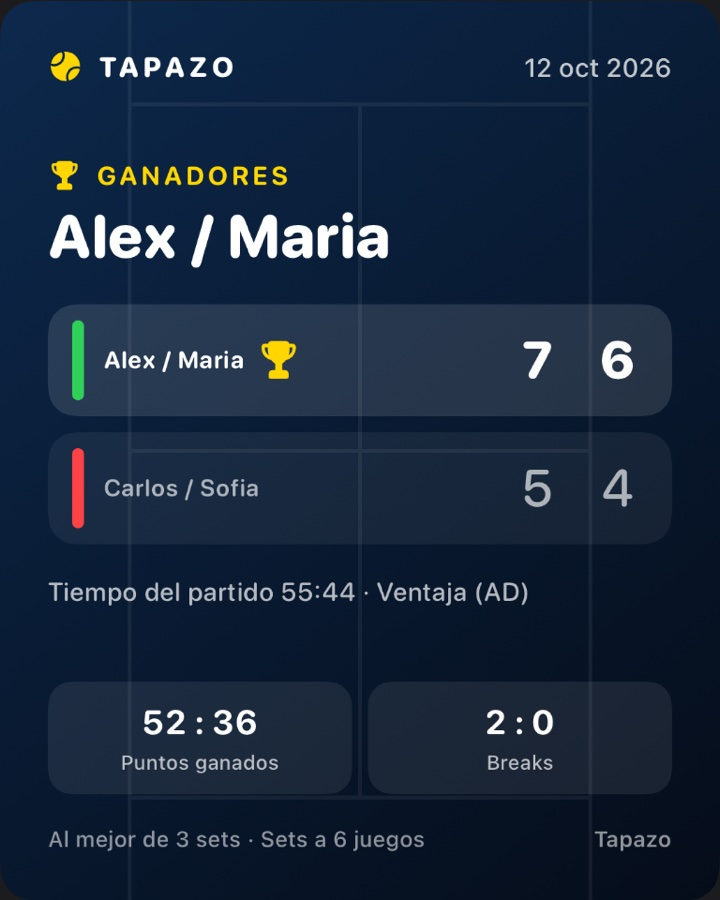
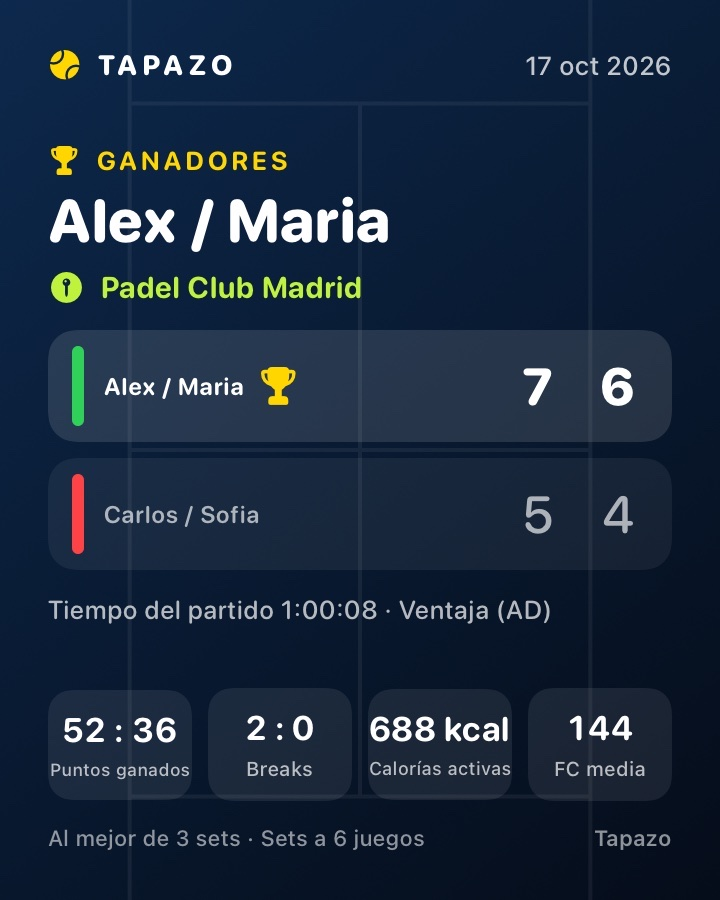
Website: clubs nearby, voice, courtside scoreboard and new screenshots
From mlodylbn/padelscore-app@6f29c3b

diff --git a/index.html b/index.html
@@ -7,7 +7,7 @@
 <meta name="title-pl" content="Tapazo – wynik padla na Apple Watch i iPhonie">
 <meta name="title-en" content="Tapazo – padel scoring for Apple Watch and iPhone">
 <meta name="title-es" content="Tapazo – marcador de pádel para Apple Watch y iPhone">
-<meta name="description" content="Tapazo liczy wynik meczu padla na Apple Watch i iPhonie: punkty gestem Double Tap, mecz towarzyski, turniejowy lub Americano, break pointy i piłki meczowe, profil gracza, wspólny mecz ze znajomymi, historia i statystyki. Bez kont i bez zbierania danych.">
+<meta name="description" content="Tapazo liczy wynik meczu padla na Apple Watch i iPhonie: punkty gestem Double Tap, mecz towarzyski, turniejowy lub Americano, break pointy i piłki meczowe, kluby padlowe w pobliżu, wynik ogłaszany na głos, profil gracza, wspólny mecz ze znajomymi, historia i statystyki. Bez kont i bez zbierania danych.">
 <link rel="canonical" href="https://www.tapazopadelscore.pl/">
 <meta property="og:title" content="Tapazo – wynik padla na Apple Watch">
 <meta property="og:description" content="Licz punkty gestem Double Tap, bez dotykania zegarka. Gemy, sety, tie-breaki, serwis i zmiana stron liczą się same.">
@@ -37,7 +37,7 @@
   "alternateName": ["Tapazo Padel", "Tapazo: Padel Score", "PadelScore"],
   "operatingSystem": "iOS, watchOS",
   "applicationCategory": "SportsApplication",
-  "description": "Padel scoring for Apple Watch and iPhone: Double Tap scoring, serve rotation, friendly, tournament and Americano matches, break and match points, a change of ends timer, player profile, matches with friends nearby, history, statistics and a shareable result image.",
+  "description": "Padel scoring for Apple Watch and iPhone: Double Tap scoring, serve rotation, friendly, tournament and Americano matches, break and match points, a change of ends timer, padel clubs nearby, the score called out loud, a courtside scoreboard, Apple Health workouts, player profile, matches with friends nearby, history, statistics and a shareable result image.",
   "url": "https://www.tapazopadelscore.pl/",
   "image": "https://www.tapazopadelscore.pl/assets/icon.png",
   "inLanguage": ["pl", "en", "de", "es", "fr", "it", "ru", "zh-Hans"],
@@ -64,6 +64,9 @@
   <symbol id="i-user" viewBox="0 0 24 24"><circle cx="12" cy="8" r="4"/><path d="M4 20.5c1.3-4 4.4-6 8-6s6.7 2 8 6"/></symbol>
   <symbol id="i-wave" viewBox="0 0 24 24"><circle cx="12" cy="12" r="2"/><path d="M8 8a5.7 5.7 0 0 0 0 8M16 8a5.7 5.7 0 0 1 0 8M5 5a10 10 0 0 0 0 14M19 5a10 10 0 0 1 0 14"/></symbol>
   <symbol id="i-hash" viewBox="0 0 24 24"><path d="M9 3.5L7 20.5M17 3.5l-2 17M4 9h17M3 15h17"/></symbol>
+  <symbol id="i-pin" viewBox="0 0 24 24"><path d="M12 21s-6.5-5.6-6.5-11a6.5 6.5 0 0 1 13 0c0 5.4-6.5 11-6.5 11z"/><circle cx="12" cy="10" r="2.5"/></symbol>
+  <symbol id="i-sound" viewBox="0 0 24 24"><path d="M4 9.5h3.5L12 5.5v13l-4.5-4H4z"/><path d="M15.5 9a4.2 4.2 0 0 1 0 6M18.5 6.5a8 8 0 0 1 0 11"/></symbol>
+  <symbol id="i-board" viewBox="0 0 24 24"><rect x="2.5" y="6" width="19" height="12" rx="2.5"/><path d="M12 6v12M7 10.5v3M17 10.5v3"/></symbol>
   <symbol id="i-palette" viewBox="0 0 24 24"><path d="M12 3a9 9 0 1 0 0 18c1.4 0 2-.9 2-1.9 0-1.4-1.2-1.7-1.2-3 0-1 .8-1.6 1.9-1.6H17a4 4 0 0 0 4-4C21 6.4 17 3 12 3z"/><circle cx="7.5" cy="11.5" r="1.2"/><circle cx="10" cy="7.5" r="1.2"/><circle cx="14.5" cy="7.5" r="1.2"/></symbol>
 </svg>
 
@@ -134,12 +137,12 @@
       <article class="card reveal">
         <div class="icon c-green"><svg class="i"><use href="#i-target"/></svg></div>
         <h3><span lang="pl">Jedno stuknięcie na punkt</span><span lang="en">One tap per point</span><span lang="es">Un toque por punto</span></h3>
-        <p><span lang="pl">Duże przyciski drużyn na zegarku, a&nbsp;gestem Double Tap bez dotykania ekranu. Pomyłkę cofasz jednym przyciskiem.</span><span lang="en">Big team buttons on your watch, or Double Tap without touching the screen. Undo any mistake with one button.</span><span lang="es">Botones grandes de cada equipo en el reloj, o el doble toque sin tocar la pantalla. Deshaz cualquier error con un botón.</span></p>
+        <p><span lang="pl">Duże przyciski drużyn na zegarku, gest Double Tap bez dotykania ekranu, a&nbsp;na Apple&nbsp;Watch Ultra przycisk Czynności. Pomyłkę cofasz jednym przyciskiem.</span><span lang="en">Big team buttons on your watch, Double Tap without touching the screen, and the Action button on Apple&nbsp;Watch Ultra. Undo any mistake with one button.</span><span lang="es">Botones grandes de cada equipo en el reloj, el doble toque sin tocar la pantalla y el botón de acción en el Apple&nbsp;Watch Ultra. Deshaz cualquier error con un botón.</span></p>
       </article>
       <article class="card reveal">
         <div class="icon c-yellow"><svg class="i"><use href="#i-ball"/></svg></div>
         <h3><span lang="pl">Kto serwuje i&nbsp;skąd</span><span lang="en">Who serves, and from where</span><span lang="es">Quién saca y desde dónde</span></h3>
-        <p><span lang="pl">Przed meczem wybierasz, kto serwuje. Potem aplikacja sama pilnuje rotacji serwisu, imion graczy i&nbsp;strony serwisu.</span><span lang="en">Pick who serves before the match. The app then follows the serve rotation, player names and serving side for you.</span><span lang="es">Elige quién saca antes del partido. La app sigue por ti la rotación del saque, los nombres de los jugadores y el lado de saque.</span></p>
+        <p><span lang="pl">Przed meczem wybierasz, kto serwuje, także jednym stuknięciem w&nbsp;„Kto serwuje?” na zegarku. Potem aplikacja sama pilnuje rotacji serwisu, imion graczy i&nbsp;strony serwisu.</span><span lang="en">Pick who serves before the match, also with one tap on "Who serves?" on the watch. The app then follows the serve rotation, player names and serving side for you.</span><span lang="es">Elige quién saca antes del partido, también con un toque en «¿Quién saca?» en el reloj. La app sigue por ti la rotación del saque, los nombres de los jugadores y el lado de saque.</span></p>
       </article>
       <article class="card reveal">
         <div class="icon c-teal"><svg class="i"><use href="#i-medal"/></svg></div>
@@ -155,6 +158,21 @@
         <div class="icon c-teal"><svg class="i"><use href="#i-wave"/></svg></div>
         <h3><span lang="pl">Mecz ze znajomymi w&nbsp;pobliżu</span><span lang="en">Play with friends nearby</span><span lang="es">Juega con amigos cercanos</span></h3>
         <p><span lang="pl">Znajomi z&nbsp;Tapazo na korcie pojawiają się na ekranie „Nowy mecz”. Dodaj ich do drużyny, a&nbsp;wynik zobaczą na swoim iPhonie i&nbsp;zegarku. Mecz trafi też do ich historii. Bez internetu.</span><span lang="en">Friends with Tapazo on court appear on the New match screen. Add them to a team and they see the score on their iPhone and watch. The match goes into their history too. No internet needed.</span><span lang="es">Los amigos con Tapazo en la pista aparecen en la pantalla Nuevo partido. Añádelos a un equipo y verán el marcador en su iPhone y su reloj. El partido también se guarda en su historial. Sin internet.</span></p>
+      </article>
+      <article class="card reveal">
+        <div class="icon c-teal"><svg class="i"><use href="#i-pin"/></svg></div>
+        <h3><span lang="pl">Kluby padlowe w&nbsp;pobliżu</span><span lang="en">Padel clubs nearby</span><span lang="es">Clubes de pádel cercanos</span></h3>
+        <p><span lang="pl">Mapa i&nbsp;lista klubów do 10, 25 lub 50&nbsp;km z&nbsp;Apple Maps, z&nbsp;dojazdem, telefonem i&nbsp;stroną klubu. Klub zapisuje się z&nbsp;meczem i&nbsp;trafia na grafikę z&nbsp;wynikiem.</span><span lang="en">A map and list of clubs within 10, 25 or 50&nbsp;km from Apple Maps, with directions, phone and website. The club is saved with the match and shown on the result image.</span><span lang="es">Mapa y lista de clubes a 10, 25 o 50&nbsp;km desde Apple Maps, con cómo llegar, teléfono y web. El club se guarda con el partido y aparece en la imagen del resultado.</span></p>
+      </article>
+      <article class="card reveal">
+        <div class="icon c-orange"><svg class="i"><use href="#i-sound"/></svg></div>
+        <h3><span lang="pl">Wynik na głos</span><span lang="en">Score called out loud</span><span lang="es">Marcador en voz alta</span></h3>
+        <p><span lang="pl">Po każdym punkcie aplikacja ogłasza wynik jak sędzia: przez głośnik iPhone'a dla całej czwórki albo w&nbsp;słuchawkach.</span><span lang="en">After every point the app calls the score like an umpire: on the iPhone speaker for all four players, or in your headphones.</span><span lang="es">Tras cada punto, la app canta el marcador como un árbitro: por el altavoz del iPhone para los cuatro o en tus auriculares.</span></p>
+      </article>
+      <article class="card reveal">
+        <div class="icon c-blue"><svg class="i"><use href="#i-board"/></svg></div>
+        <h3><span lang="pl">Tablica przy korcie</span><span lang="en">Courtside scoreboard</span><span lang="es">Marcador a pie de pista</span></h3>
+        <p><span lang="pl">Obróć iPhone'a poziomo, a&nbsp;zamieni się w&nbsp;tablicę z&nbsp;wielkimi cyframi, czytelną dla wszystkich graczy. Strony zamienisz jak na korcie.</span><span lang="en">Turn your iPhone sideways for a scoreboard with huge numbers that every player can read. Swap sides to match the court.</span><span lang="es">Gira el iPhone en horizontal y se convierte en un marcador con números enormes que todos pueden leer. Cambia los lados como en la pista.</span></p>
       </article>
       <article class="card reveal">
         <div class="icon c-pink"><svg class="i"><use href="#i-user"/></svg></div>
@@ -183,13 +201,13 @@
       </article>
       <article class="card reveal">
         <div class="icon c-sky"><svg class="i"><use href="#i-phone"/></svg></div>
-        <h3><span lang="pl">Wynik na ekranie blokady</span><span lang="en">Score on the Lock Screen</span><span lang="es">Marcador en la pantalla de bloqueo</span></h3>
-        <p><span lang="pl">Live Activity i&nbsp;Dynamic Island na iPhonie. Zegarek i&nbsp;telefon zawsze pokazują to samo.</span><span lang="en">Live Activity and Dynamic Island on iPhone. Watch and phone always show the same score.</span><span lang="es">Actividad en directo y Dynamic Island en el iPhone. El reloj y el teléfono muestran siempre el mismo marcador.</span></p>
+        <h3><span lang="pl">Wynik zawsze na widoku</span><span lang="en">The score always in sight</span><span lang="es">El marcador siempre a la vista</span></h3>
+        <p><span lang="pl">Ekran blokady i&nbsp;Dynamic Island na iPhonie, wynik na tarczy zegarka. Zegarek i&nbsp;telefon zawsze pokazują to samo.</span><span lang="en">Lock Screen and Dynamic Island on iPhone, and the score on your watch face. Watch and phone always show the same score.</span><span lang="es">Pantalla de bloqueo y Dynamic Island en el iPhone, y el marcador en la esfera del reloj. El reloj y el teléfono muestran siempre lo mismo.</span></p>
       </article>
       <article class="card reveal">
         <div class="icon c-red"><svg class="i"><use href="#i-heart"/></svg></div>
-        <h3><span lang="pl">Trening w&nbsp;Zdrowiu</span><span lang="en">Workout in Health</span><span lang="es">Entrenamiento en Salud</span></h3>
-        <p><span lang="pl">Opcjonalnie zapisz mecz jako trening: tętno i&nbsp;kalorie w&nbsp;historii meczów.</span><span lang="en">Optionally save the match as a workout, with heart rate and calories in your history.</span><span lang="es">Si quieres, guarda el partido como entrenamiento, con frecuencia cardiaca y calorías en tu historial.</span></p>
+        <h3><span lang="pl">Trening w&nbsp;aplikacji Zdrowie</span><span lang="en">Workout in Apple Health</span><span lang="es">Entrenamiento en Salud</span></h3>
+        <p><span lang="pl">Zegarek zapisuje mecz jako trening w&nbsp;aplikacji Zdrowie, a&nbsp;tętno i&nbsp;kalorie pokazuje w&nbsp;historii. Przełącznik „Zapisuj mecze w&nbsp;Zdrowiu” w&nbsp;ustawieniach.</span><span lang="en">The watch saves the match as a workout in the Health app, with heart rate and calories in your history. Turn it on or off with "Save matches in Health".</span><span lang="es">El reloj guarda el partido como entrenamiento en la app Salud, con frecuencia cardiaca y calorías en tu historial. Actívalo o desactívalo con «Guardar partidos en Salud».</span></p>
       </article>
     </div>
   </div>
@@ -273,12 +291,17 @@
       <figure class="shot reveal">
         <div class="frame"><img src="assets/iphone-home.jpg" loading="lazy" width="506" height="1100" alt="Menu startowe Tapazo z trwającym meczem" data-en="assets/en/iphone-home.jpg" data-alt-en="Tapazo home screen with a match in progress" data-es="assets/es/iphone-home.jpg" data-alt-es="Pantalla de inicio de Tapazo con un partido en curso"></div>
         <figcaption><span lang="pl">Start</span><span lang="en">Start</span><span lang="es">Inicio</span>
-          <span><span lang="pl">Mecz, profil, historia i&nbsp;ustawienia</span><span lang="en">Match, profile, history and settings</span><span lang="es">Partido, perfil, historial y ajustes</span></span></figcaption>
+          <span><span lang="pl">Mecz, profil, historia i&nbsp;kluby</span><span lang="en">Match, profile, history and clubs</span><span lang="es">Partido, perfil, historial y clubes</span></span></figcaption>
       </figure>
       <figure class="shot reveal">
         <div class="frame"><img src="assets/iphone-score.jpg" loading="lazy" width="506" height="1100" alt="Ekran meczu z piłką setową" data-en="assets/en/iphone-score.jpg" data-alt-en="Match screen with a set point" data-es="assets/es/iphone-score.jpg" data-alt-es="Pantalla del partido con bola de set"></div>
         <figcaption><span lang="pl">Mecz</span><span lang="en">Match</span><span lang="es">Partido</span>
           <span><span lang="pl">Wynik, serwis i&nbsp;piłka setowa</span><span lang="en">Score, serve and set point</span><span lang="es">Marcador, saque y bola de set</span></span></figcaption>
+      </figure>
+      <figure class="shot reveal">
+        <div class="frame"><img src="assets/iphone-clubs.jpg" loading="lazy" width="506" height="1100" alt="Kluby padlowe w pobliżu na mapie i liście, do 50 km" data-en="assets/en/iphone-clubs.jpg" data-alt-en="Padel clubs nearby on a map and a list, up to 50 km" data-es="assets/es/iphone-clubs.jpg" data-alt-es="Clubes de pádel cercanos en un mapa y una lista, hasta 50 km"></div>
+        <figcaption><span lang="pl">Kluby</span><span lang="en">Clubs</span><span lang="es">Clubes</span>
+          <span><span lang="pl">Kluby padlowe w&nbsp;pobliżu na mapie</span><span lang="en">Padel clubs nearby on a map</span><span lang="es">Clubes de pádel cercanos en un mapa</span></span></figcaption>
       </figure>
       <figure class="shot reveal">
         <div class="frame"><img src="assets/iphone-change-ends.jpg" loading="lazy" width="506" height="1100" alt="Odliczanie czasu na zmianę stron" data-en="assets/en/iphone-change-ends.jpg" data-alt-en="Change of ends countdown" data-es="assets/es/iphone-change-ends.jpg" data-alt-es="Cuenta atrás del cambio de lado"></div>
@@ -291,9 +314,9 @@
           <span><span lang="pl">Drużyny, gracze w&nbsp;pobliżu i&nbsp;serwis</span><span lang="en">Teams, players nearby and serve</span><span lang="es">Equipos, jugadores cercanos y saque</span></span></figcaption>
       </figure>
       <figure class="shot reveal">
-        <div class="frame"><img src="assets/iphone-history.jpg" loading="lazy" width="506" height="1100" alt="Historia meczów z podsumowaniem i kartami meczów" data-en="assets/en/iphone-history.jpg" data-alt-en="Match history with a summary and match cards" data-es="assets/es/iphone-history.jpg" data-alt-es="Historial con resumen y tarjetas de partidos"></div>
+        <div class="frame"><img src="assets/iphone-history.jpg" loading="lazy" width="506" height="1100" alt="Historia meczów z podsumowaniem, klubami i kaloriami" data-en="assets/en/iphone-history.jpg" data-alt-en="Match history with a summary, clubs and calories" data-es="assets/es/iphone-history.jpg" data-alt-es="Historial con resumen, clubes y calorías"></div>
         <figcaption><span lang="pl">Historia</span><span lang="en">History</span><span lang="es">Historial</span>
-          <span><span lang="pl">Podsumowanie, filtr i&nbsp;eksport</span><span lang="en">Summary, filter and export</span><span lang="es">Resumen, filtro y exportación</span></span></figcaption>
+          <span><span lang="pl">Kluby, kalorie, filtr i&nbsp;eksport</span><span lang="en">Clubs, calories, filter and export</span><span lang="es">Clubes, calorías, filtro y exportación</span></span></figcaption>
       </figure>
       <figure class="shot reveal">
         <div class="frame"><img src="assets/iphone-profile.jpg" loading="lazy" width="506" height="1100" alt="Profil gracza z poziomem, informacjami o grze i statystykami" data-en="assets/en/iphone-profile.jpg" data-alt-en="Player profile with level, playing details and statistics" data-es="assets/es/iphone-profile.jpg" data-alt-es="Perfil de jugador con nivel, datos de juego y estadísticas"></div>
@@ -301,14 +324,9 @@
           <span><span lang="pl">Poziom, styl gry i&nbsp;statystyki</span><span lang="en">Level, playing style and statistics</span><span lang="es">Nivel, estilo de juego y estadísticas</span></span></figcaption>
       </figure>
       <figure class="shot reveal">
-        <div class="frame"><img src="assets/iphone-stats.jpg" loading="lazy" width="506" height="1100" alt="Szczegóły meczu: wykres przebiegu i grafika z wynikiem do udostępnienia" data-en="assets/en/iphone-stats.jpg" data-alt-en="Match details: match flow chart and a shareable result image" data-es="assets/es/iphone-stats.jpg" data-alt-es="Detalles del partido: gráfico del partido e imagen del resultado para compartir"></div>
-        <figcaption><span lang="pl">Statystyki</span><span lang="en">Statistics</span><span lang="es">Estadísticas</span>
-          <span><span lang="pl">Breaki, serwis i&nbsp;przebieg meczu</span><span lang="en">Breaks, serve and match flow</span><span lang="es">Breaks, saque y desarrollo del partido</span></span></figcaption>
-      </figure>
-      <figure class="shot reveal">
         <div class="frame card-img"><img src="assets/share-card.jpg" loading="lazy" width="720" height="900" alt="Grafika z wynikiem meczu do udostępnienia" data-en="assets/en/share-card.jpg" data-alt-en="Shareable match result image" data-es="assets/es/share-card.jpg" data-alt-es="Imagen del resultado para compartir"></div>
         <figcaption><span lang="pl">Udostępnij</span><span lang="en">Share</span><span lang="es">Compartir</span>
-          <span><span lang="pl">Gotowa grafika na Instagram i&nbsp;WhatsApp</span><span lang="en">A ready image for Instagram and WhatsApp</span><span lang="es">Una imagen lista para Instagram y WhatsApp</span></span></figcaption>
+          <span><span lang="pl">Grafika z&nbsp;klubem na Instagram i&nbsp;WhatsApp</span><span lang="en">An image with the club for Instagram and WhatsApp</span><span lang="es">Una imagen con el club para Instagram y WhatsApp</span></span></figcaption>
       </figure>
     </div>
   </div>
@@ -323,7 +341,7 @@
     <div class="steps">
       <div class="card step reveal">
         <h3><span lang="pl">Ustaw mecz</span><span lang="en">Set up the match</span><span lang="es">Prepara el partido</span></h3>
-        <p><span lang="pl">Wybierz mecz towarzyski, turniejowy lub Americano. Dodaj graczy: wpisz imiona albo dodaj znajomych z&nbsp;Tapazo w&nbsp;pobliżu.</span><span lang="en">Choose a friendly, tournament or Americano match. Add players: type their names or add friends with Tapazo nearby.</span><span lang="es">Elige partido amistoso, de torneo o Americano. Añade jugadores: escribe sus nombres o añade amigos cercanos con Tapazo.</span></p>
+        <p><span lang="pl">Wybierz mecz towarzyski, turniejowy lub Americano. Dodaj graczy: wpisz imiona albo dodaj znajomych z&nbsp;Tapazo w&nbsp;pobliżu. Aplikacja podpowie klub, w&nbsp;którym grasz.</span><span lang="en">Choose a friendly, tournament or Americano match. Add players: type their names or add friends with Tapazo nearby. The app suggests the club you are at.</span><span lang="es">Elige partido amistoso, de torneo o Americano. Añade jugadores: escribe sus nombres o añade amigos cercanos con Tapazo. La app te sugiere el club en el que estás.</span></p>
       </div>
       <div class="card step reveal">
         <h3><span lang="pl">Graj z&nbsp;zegarkiem</span><span lang="en">Play with your watch</span><span lang="es">Juega con tu reloj</span></h3>
@@ -343,7 +361,7 @@
       <div class="shield"><svg class="i"><use href="#i-shield"/></svg></div>
       <div>
         <h2><span lang="pl">Twoje dane zostają u&nbsp;Ciebie</span><span lang="en">Your data stays with you</span><span lang="es">Tus datos se quedan contigo</span></h2>
-        <p><span lang="pl">Bez konta, bez serwerów, bez reklam i&nbsp;bez śledzenia. Tapazo nie zbiera żadnych danych, a&nbsp;Twój profil i&nbsp;zdjęcie zostają na Twoim iPhonie.</span><span lang="en">No account, no servers, no ads and no tracking. Tapazo does not collect any data; your profile and photo stay on your iPhone.</span><span lang="es">Sin cuenta, sin servidores, sin anuncios y sin seguimiento. Tapazo no recopila ningún dato; tu perfil y tu foto se quedan en tu iPhone.</span></p>
+        <p><span lang="pl">Bez konta, bez serwerów, bez reklam i&nbsp;bez śledzenia. Tapazo nie zbiera żadnych danych, a&nbsp;Twój profil i&nbsp;zdjęcie zostają na Twoim iPhonie. Lokalizacja służy tylko do wyszukania klubów i&nbsp;nie jest zapisywana.</span><span lang="en">No account, no servers, no ads and no tracking. Tapazo does not collect any data; your profile and photo stay on your iPhone. Your location is used only to find clubs and is not saved.</span><span lang="es">Sin cuenta, sin servidores, sin anuncios y sin seguimiento. Tapazo no recopila ningún dato; tu perfil y tu foto se quedan en tu iPhone. La ubicación solo se usa para buscar clubes y no se guarda.</span></p>
       </div>
       <a class="btn primary" href="privacy/"><span lang="pl">Polityka prywatności</span><span lang="en">Privacy policy</span><span lang="es">Política de privacidad</span></a>
     </div>

diff --git a/support/index.html b/support/index.html
@@ -130,9 +130,9 @@
     <details>
       <summary><span lang="pl">Jak działa wskazywanie serwującego?</span><span lang="en">How does the server indicator work?</span><span lang="es">¿Cómo funciona el indicador de saque?</span></summary>
       <div class="answer">
-        <p lang="pl">Przy starcie meczu, na ekranie „Nowy mecz”, wybierz, kto serwuje pierwszy, albo zakręć rakietą. Dalej aplikacja sama liczy rotację, także w&nbsp;tie-breaku, i&nbsp;pokazuje stronę serwisu. Gdy gracze mają imiona, widać też, który z&nbsp;nich serwuje, a&nbsp;przed pierwszym gemem serwisowym każdej pary aplikacja pyta, kto z&nbsp;niej serwuje. Serwującego możesz poprawić w&nbsp;każdej chwili w&nbsp;menu meczu („…” › Zmień serwis).</p>
-        <p lang="en">When you start a match on the “New match” screen, choose who serves first, or spin the racket. From then on the app counts the rotation, including tie-breaks, and shows the serving side. When players have names, you also see which player serves, and before each pair’s first service game the app asks which of them serves. You can correct the server at any time in the match menu (“…” › Change server).</p>
-        <p lang="es">Al empezar el partido, elige quién saca primero. A partir de ahí la app cuenta la rotación, también en los tie-breaks, y muestra el lado de saque. Con los nombres de los jugadores ves además qué jugador saca; antes del primer juego de saque de cada pareja, la app pregunta quién saca. Puedes corregir el saque en cualquier momento en el menú del partido.</p>
+        <p lang="pl">Przy starcie meczu, na ekranie „Nowy mecz”, wybierz, kto serwuje pierwszy, albo zakręć rakietą. Dalej aplikacja sama liczy rotację, także w&nbsp;tie-breaku, i&nbsp;pokazuje stronę serwisu. Gdy gracze mają imiona, widać też, który z&nbsp;nich serwuje, a&nbsp;przed pierwszym gemem serwisowym każdej pary aplikacja pyta, kto z&nbsp;niej serwuje. Serwującego możesz poprawić w&nbsp;każdej chwili w&nbsp;menu meczu („…” › Zmień serwis). Na zegarku, dopóki serwujący nie jest wybrany, nad wynikiem widać żółty przycisk „Kto serwuje?”, a&nbsp;wybór jest też na górze menu „•••”.</p>
+        <p lang="en">When you start a match on the “New match” screen, choose who serves first, or spin the racket. From then on the app counts the rotation, including tie-breaks, and shows the serving side. When players have names, you also see which player serves, and before each pair’s first service game the app asks which of them serves. You can correct the server at any time in the match menu (“…” › Change server). On the watch, until a server is chosen, a yellow “Who serves?” button appears above the score, and the choice is also at the top of the “•••” menu.</p>
+        <p lang="es">Al empezar el partido, elige quién saca primero. A partir de ahí la app cuenta la rotación, también en los tie-breaks, y muestra el lado de saque. Con los nombres de los jugadores ves además qué jugador saca; antes del primer juego de saque de cada pareja, la app pregunta quién saca. Puedes corregir el saque en cualquier momento en el menú del partido. En el reloj, mientras no se elija quién saca, aparece sobre el marcador un botón amarillo «¿Quién saca?», y la opción también está arriba del menú «•••».</p>
       </div>
     </details>
 
@@ -187,6 +187,42 @@
         <p lang="pl">Oba telefony muszą mieć otwarte Tapazo i&nbsp;włączone Bluetooth oraz Wi-Fi (nie trzeba łączyć się z&nbsp;żadną siecią). Znajomy powinien mieć ustawiony nick w&nbsp;profilu i&nbsp;włączoną opcję „Widoczny dla graczy w&nbsp;pobliżu” na ekranie „Dołącz do meczu znajomego”. Sprawdź też zgodę na sieć lokalną: Ustawienia › Prywatność i&nbsp;ochrona › Sieć lokalna › Tapazo.</p>
         <p lang="en">Both phones need Tapazo open with Bluetooth and Wi-Fi turned on (no need to join a network). Your friend should have a nickname in their profile and “Visible to players nearby” turned on under “Join a friend's match”. Also check local network access: Settings › Privacy &amp; Security › Local Network › Tapazo.</p>
         <p lang="es">Los dos teléfonos necesitan Tapazo abierto con Bluetooth y Wi-Fi activados (no hace falta conectarse a una red). Tu amigo debe tener un apodo en su perfil y «Visible para jugadores cercanos» activado en «Unirse al partido de un amigo». Comprueba también el acceso a la red local: Ajustes › Privacidad y seguridad › Red local › Tapazo.</p>
+      </div>
+    </details>
+
+    <details>
+      <summary><span lang="pl">Jak znaleźć kluby padlowe w&nbsp;pobliżu?</span><span lang="en">How do I find padel clubs nearby?</span><span lang="es">¿Cómo encuentro clubes de pádel cercanos?</span></summary>
+      <div class="answer">
+        <p lang="pl">Na ekranie startowym stuknij „Kluby w&nbsp;pobliżu” i&nbsp;zezwól na dostęp do lokalizacji podczas używania aplikacji. Tapazo wyszuka w&nbsp;Apple Maps kluby padlowe do 10, 25 lub 50&nbsp;km i&nbsp;pokaże je na mapie i&nbsp;liście. Stuknij klub, żeby wyznaczyć trasę, zadzwonić albo otworzyć jego stronę. Lokalizacja służy tylko do tego wyszukiwania i&nbsp;nie jest zapisywana. Jeśli wcześniej odmówiłeś dostępu, włącz go w&nbsp;Ustawieniach iPhone'a › Tapazo › Lokalizacja.</p>
+        <p lang="en">On the home screen, tap “Clubs nearby” and allow location access while using the app. Tapazo searches Apple Maps for padel clubs within 10, 25 or 50&nbsp;km and shows them on a map and a list. Tap a club for directions, to call it or to open its website. Your location is used only for this search and is not saved. If you declined access earlier, turn it on in iPhone Settings › Tapazo › Location.</p>
+        <p lang="es">En la pantalla de inicio, toca «Clubes cercanos» y permite el acceso a la ubicación mientras usas la app. Tapazo busca en Apple Maps clubes de pádel a 10, 25 o 50&nbsp;km y los muestra en un mapa y una lista. Toca un club para ver cómo llegar, llamar o abrir su web. La ubicación solo se usa para esta búsqueda y no se guarda. Si antes denegaste el acceso, actívalo en Ajustes del iPhone › Tapazo › Ubicación.</p>
+      </div>
+    </details>
+
+    <details>
+      <summary><span lang="pl">Jak przypisać klub do meczu?</span><span lang="en">How do I set the club of a match?</span><span lang="es">¿Cómo asigno el club de un partido?</span></summary>
+      <div class="answer">
+        <p lang="pl">Na ekranie „Nowy mecz” aplikacja podpowiada klub, w&nbsp;którym jesteś (do 500&nbsp;m), albo klub meczu z&nbsp;ostatnich godzin. Możesz wybrać inny z&nbsp;listy albo zostawić mecz bez klubu. Klub zapisuje się w&nbsp;historii i&nbsp;pojawia się na grafice z&nbsp;wynikiem. Zmienisz go później w&nbsp;Historii › szczegóły meczu.</p>
+        <p lang="en">On the “New match” screen, the app suggests the club you are at (within 500&nbsp;m) or the club of a match in the last hours. You can pick another one from the list or leave the match without a club. The club is saved in your history and shown on the result image. You can change it later in History › match details.</p>
+        <p lang="es">En la pantalla «Nuevo partido», la app sugiere el club en el que estás (a menos de 500&nbsp;m) o el club de un partido de las últimas horas. Puedes elegir otro de la lista o dejar el partido sin club. El club se guarda en el historial y aparece en la imagen del resultado. Puedes cambiarlo después en Historial › detalles del partido.</p>
+      </div>
+    </details>
+
+    <details>
+      <summary><span lang="pl">Jak włączyć ogłaszanie wyniku na głos?</span><span lang="en">How do I hear the score called out loud?</span><span lang="es">¿Cómo escucho el marcador en voz alta?</span></summary>
+      <div class="answer">
+        <p lang="pl">Wejdź w&nbsp;Ustawienia › Głos i&nbsp;włącz „Ogłaszaj wynik na głos”. Po każdym punkcie iPhone powie wynik przez głośnik albo w&nbsp;podłączonych słuchawkach. Mowa jest tworzona na urządzeniu, bez internetu.</p>
+        <p lang="en">Go to Settings › Voice and turn on “Call the score out loud”. After every point the iPhone says the score on its speaker or in connected headphones. The speech is made on the device, without internet.</p>
+        <p lang="es">Ve a Ajustes › Voz y activa «Anunciar el marcador en voz alta». Tras cada punto, el iPhone dice el marcador por el altavoz o en los auriculares conectados. La voz se genera en el dispositivo, sin internet.</p>
+      </div>
+    </details>
+
+    <details>
+      <summary><span lang="pl">Jak włączyć tablicę przy korcie?</span><span lang="en">How do I open the courtside scoreboard?</span><span lang="es">¿Cómo abro el marcador a pie de pista?</span></summary>
+      <div class="answer">
+        <p lang="pl">W&nbsp;trakcie meczu obróć iPhone'a poziomo. Ekran zamieni się w&nbsp;tablicę z&nbsp;wielkimi cyframi, którą widzą wszyscy gracze. Strony drużyn zamienisz przyciskiem na tablicy. Tablicę otworzysz też z&nbsp;menu meczu.</p>
+        <p lang="en">During a match, turn your iPhone sideways. The screen becomes a scoreboard with huge numbers that every player can see. Swap the teams' sides with the button on the scoreboard. You can also open it from the match menu.</p>
+        <p lang="es">Durante el partido, gira el iPhone en horizontal. La pantalla se convierte en un marcador con números enormes que ven todos los jugadores. Cambia los lados de los equipos con el botón del marcador. También puedes abrirlo desde el menú del partido.</p>
       </div>
     </details>
 
